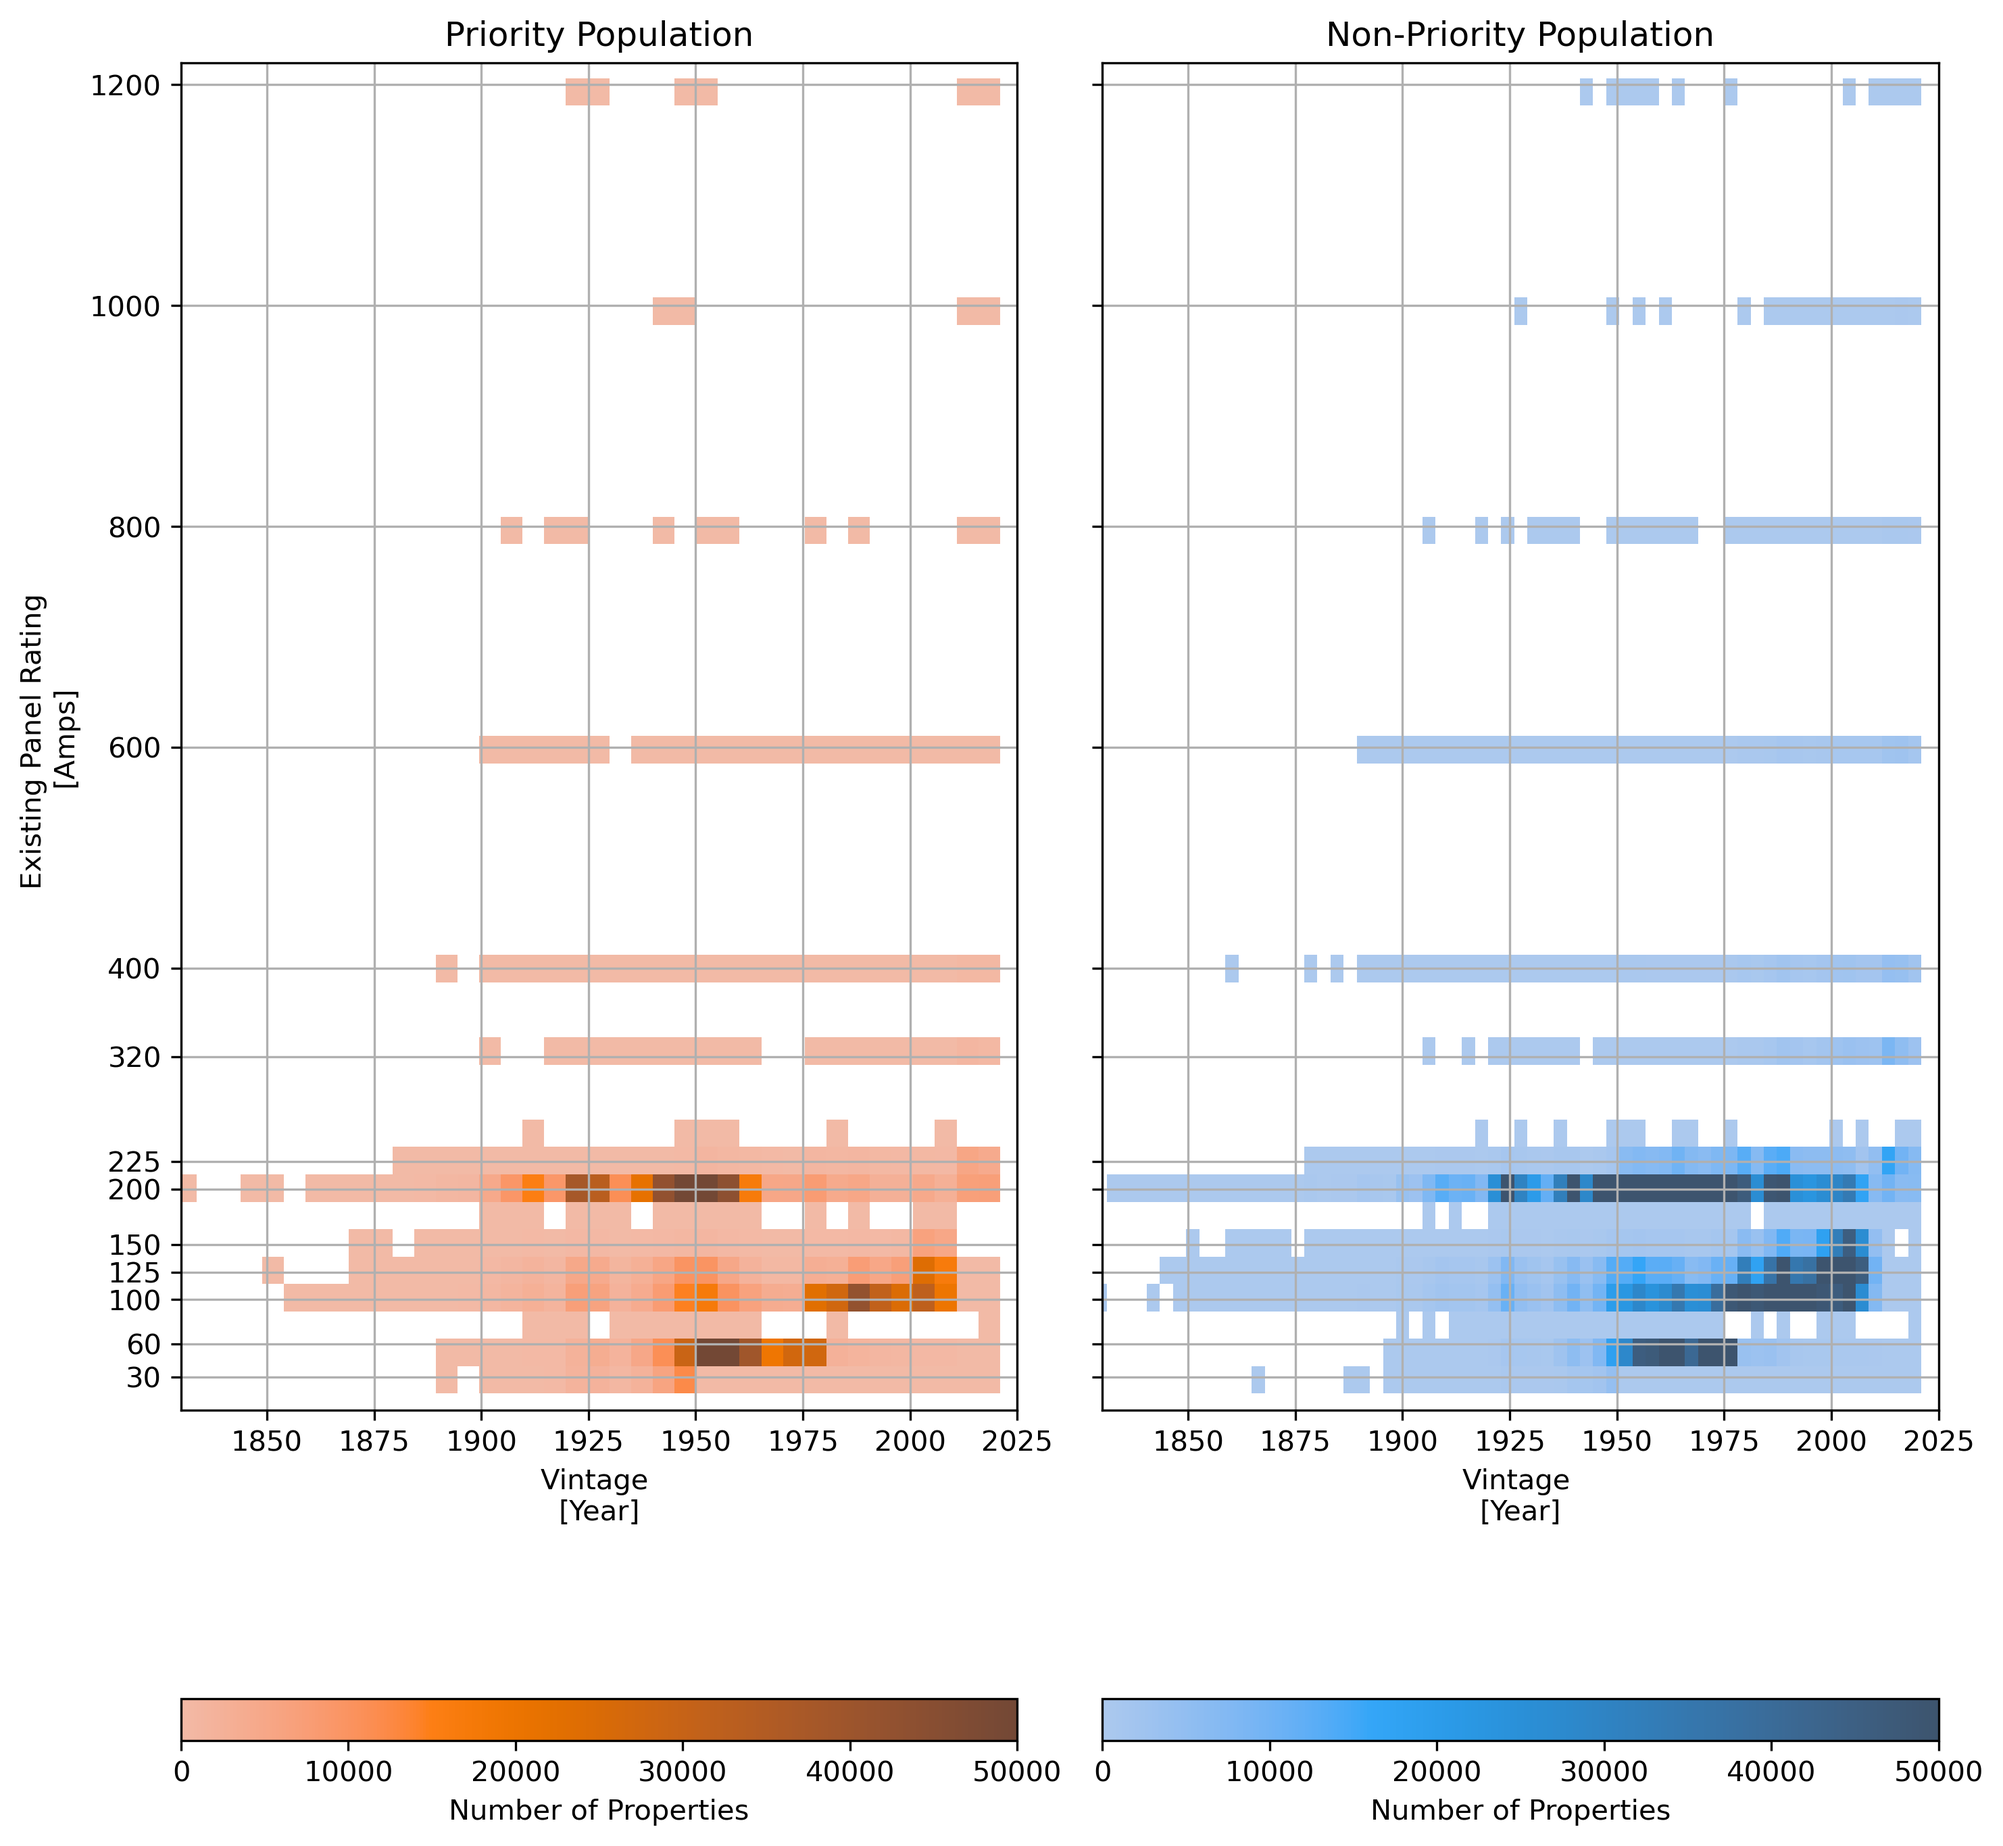
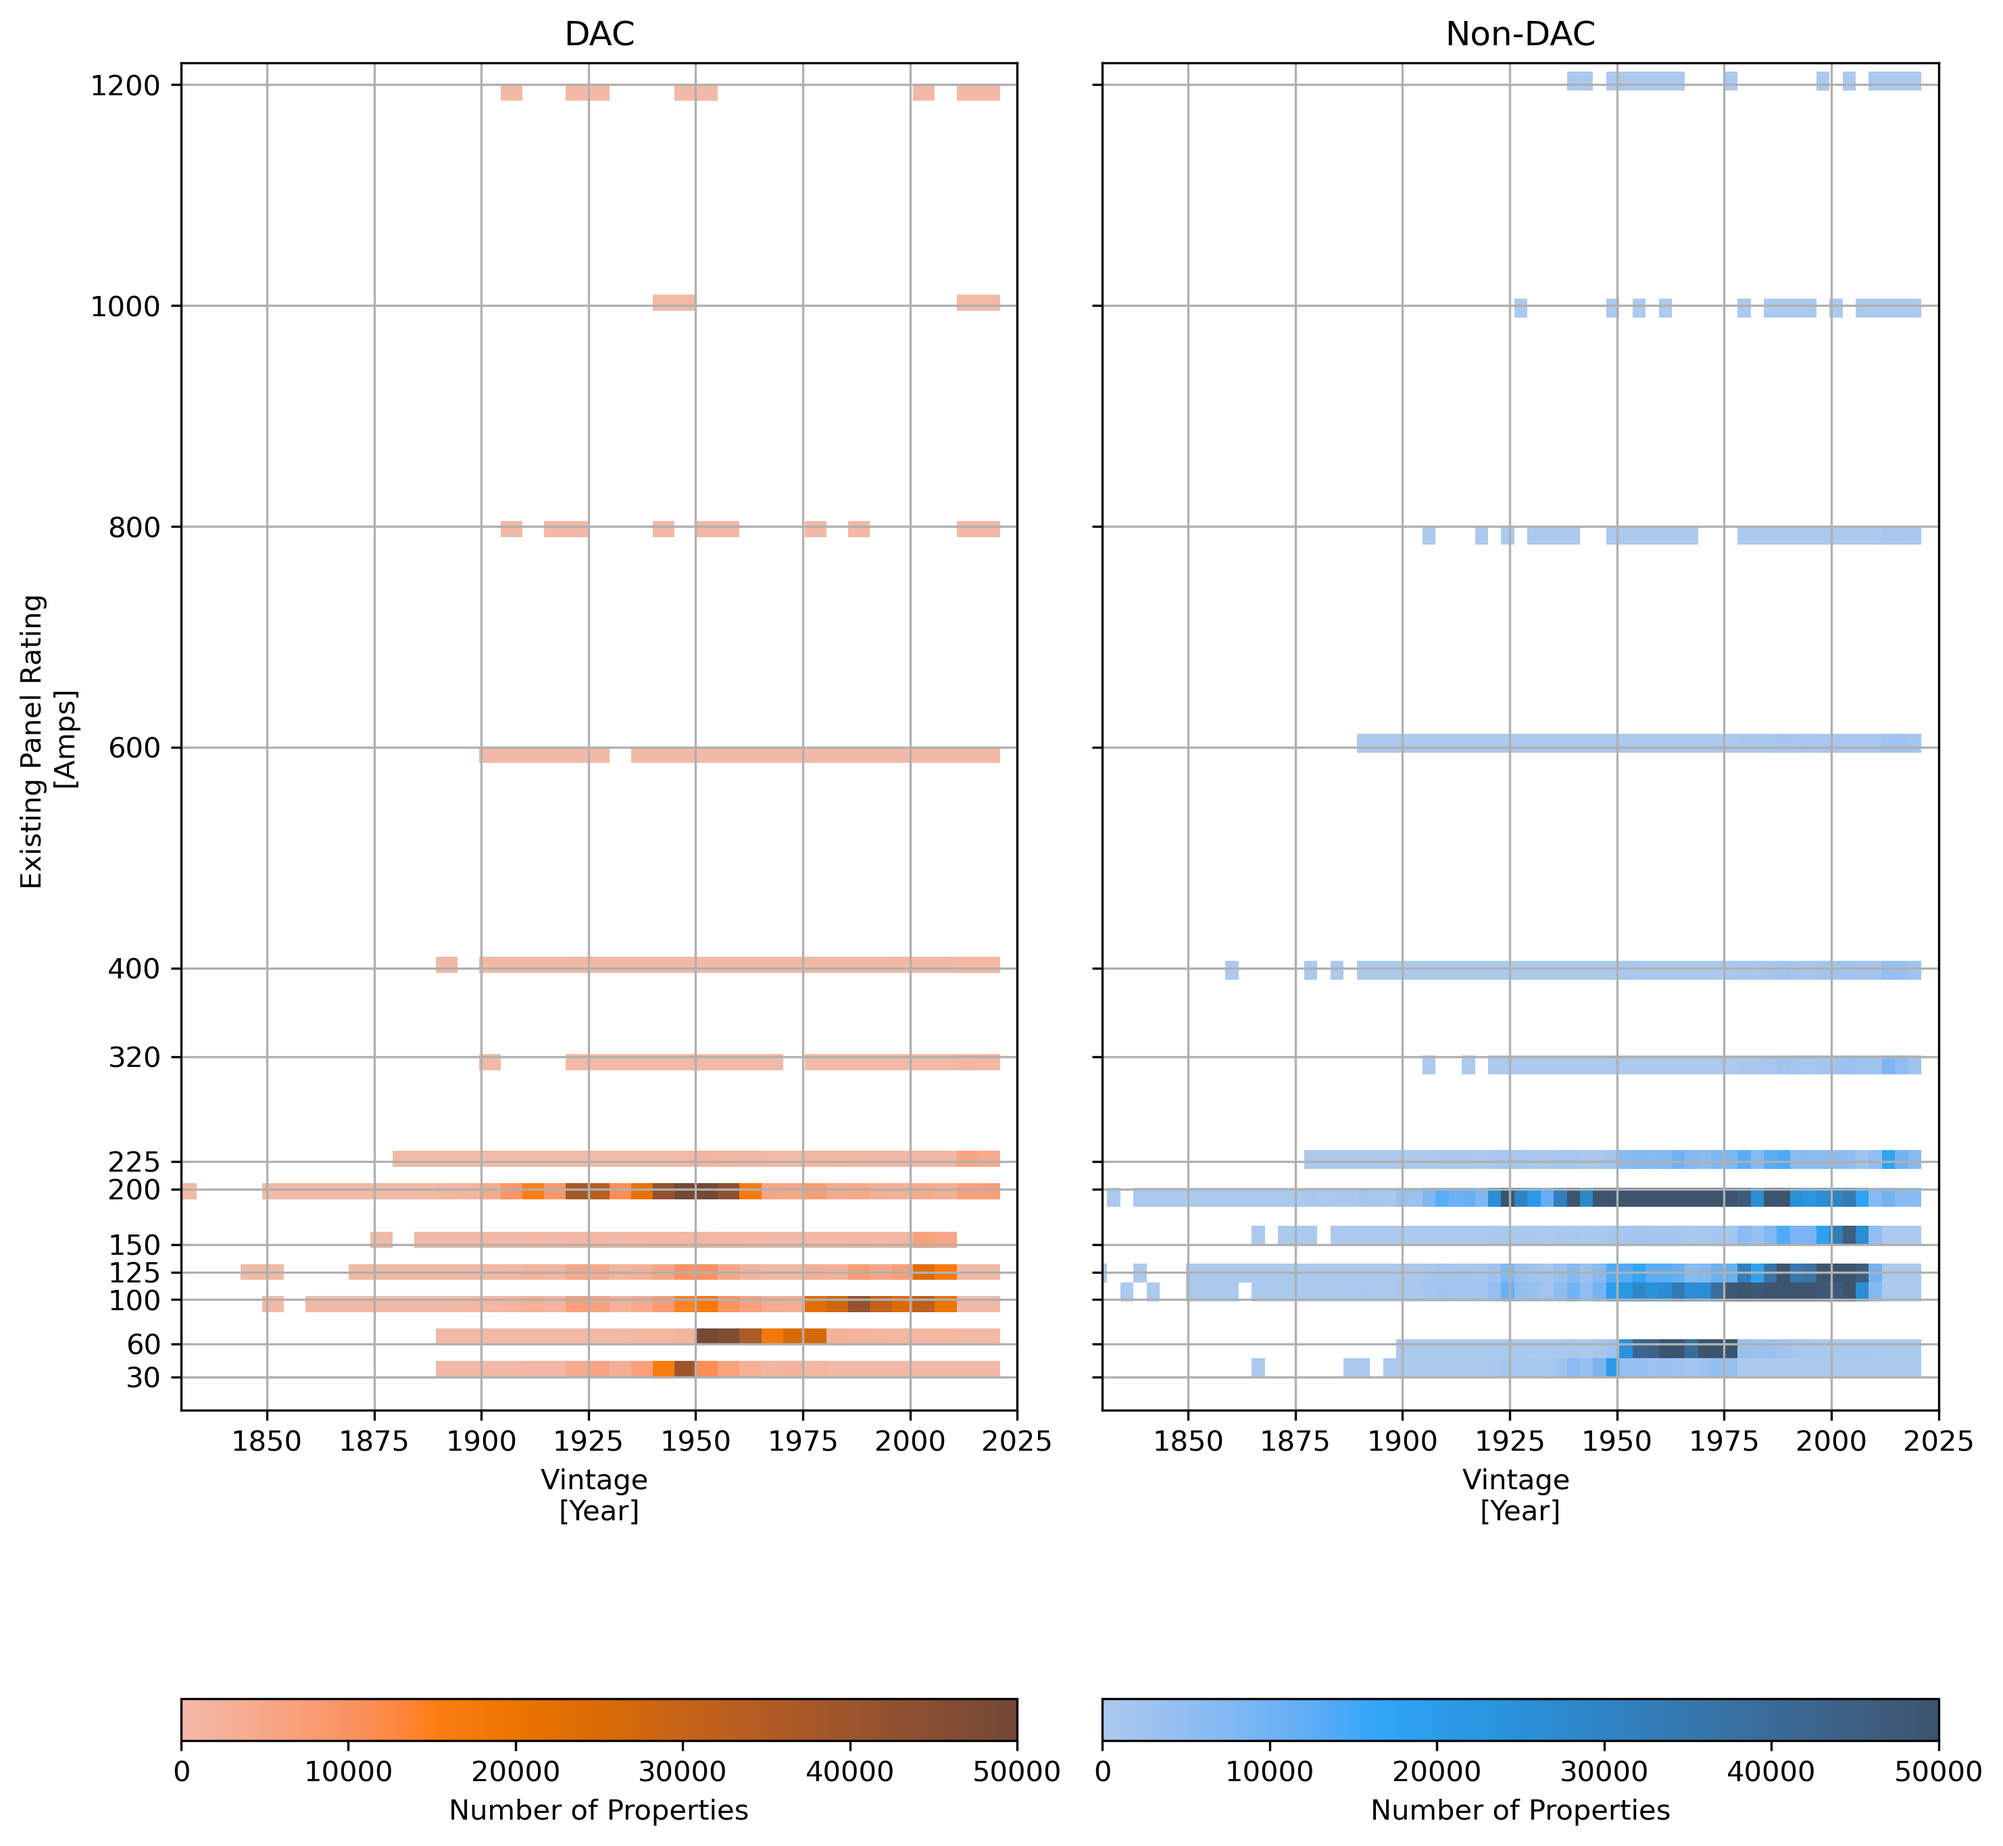
Model data and analysis changes for reporting

diff --git a/analyses/model_data/model_data_analysis.py b/analyses/model_data/model_data_analysis.py
@@ -192,6 +192,13 @@ def PrintPanelStatsTable(mp, sector):
     total = (~mp['panel_size_existing'].isna()).sum()
     stats['pct'] = stats['count'].divide(total).multiply(100.0)
 
+    if sector == 'multi_family':
+        units = mp[['panel_size_class','panel_size_existing','TotalNoOfUnits']].groupby('panel_size_class',
+            observed = False)['TotalNoOfUnits'].agg('sum').to_frame()
+        total_units = mp.loc[(~mp['panel_size_existing'].isna()), 'TotalNoOfUnits'].sum()
+        units['pct'] = units['TotalNoOfUnits'].divide(total_units).multiply(100.0)
+        stats = pd.merge(stats, units, left_index = True, right_index = True)
+
     print(stats)
 
     return stats
@@ -517,7 +524,7 @@ def ExistingPanelRatingsHist(mp, sector, figure_dir):
     elif sector == 'multi_family':
         yticks = [30, 40, 60, 90, 100, 125, 150, 200]
         ylim = (0, 220)
-        ylabel = 'Existing Average Load Center Rating per Unit \n[Amps]'
+        ylabel = 'Existing Panel Rating per Unit \n[Amps]'
         bins = 40
 
     fig, ax = plt.subplots(1,2,figsize = (10,10), sharey = True, sharex = True)
@@ -556,8 +563,8 @@ def ExistingPanelRatingsHist(mp, sector, figure_dir):
     ax[0].set_xlabel('Vintage \n[Year]')
     ax[1].set_xlabel('Vintage \n[Year]')
 
-    ax[0].set_title('Priority Population')
-    ax[1].set_title('Non-Priority Population')
+    ax[0].set_title('DAC')
+    ax[1].set_title('Non-DAC')
 
     ax[0].set_ylim(ylim)
     ax[1].set_ylim(ylim)

diff --git a/analyses/building_permits/building_permits_analysis.py b/analyses/building_permits/building_permits_analysis.py
@@ -371,7 +371,8 @@ fig, ax = plt.subplots(1,1, figsize = (5,8))
 data.plot(column = 'permit_counts',
     ax = ax,
     cmap = 'rainbow',
-    scheme = 'fisher_jenks')
+    scheme = 'fisher_jenks',
+    legend = True)
 counties.boundary.plot(ax=ax, edgecolor = 'black', linewidth = 0.5)
 ax.set_axis_off()
 
@@ -391,7 +392,8 @@ counties.dissolve().plot(ax = ax, facecolor = 'white', edgecolor = 'black', line
 data.plot(column = 'permit_counts',
     ax = ax,
     cmap = 'rainbow',
-    scheme = 'fisher_jenks')
+    scheme = 'fisher_jenks',
+    legend = True)
 places.boundary.plot(ax=ax, edgecolor = 'black', linewidth = 0.1)
 ax.set_axis_off()
 
